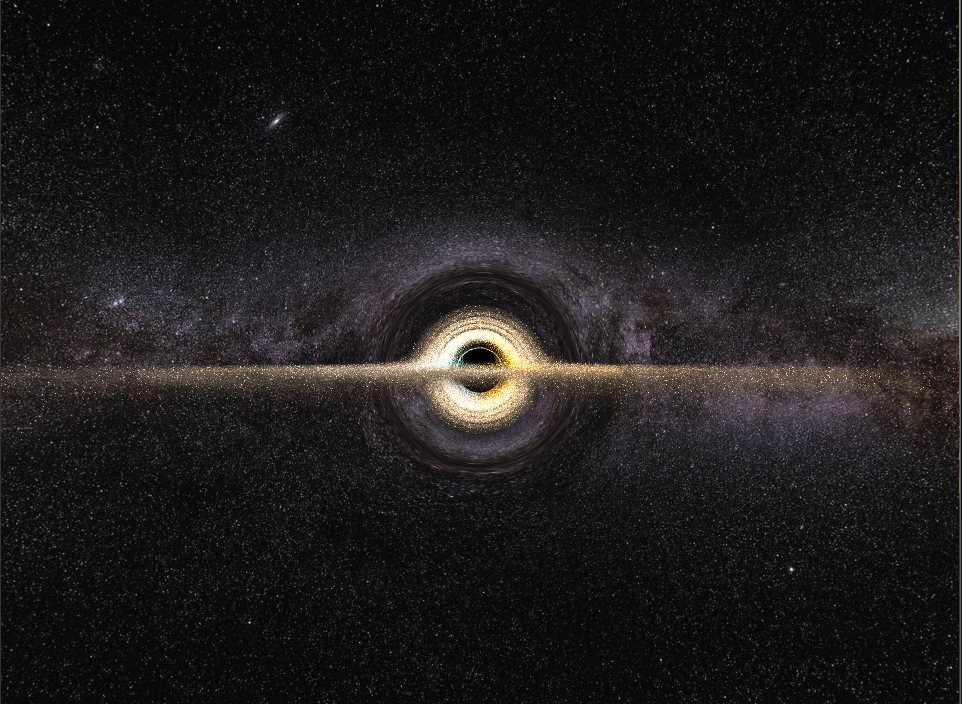
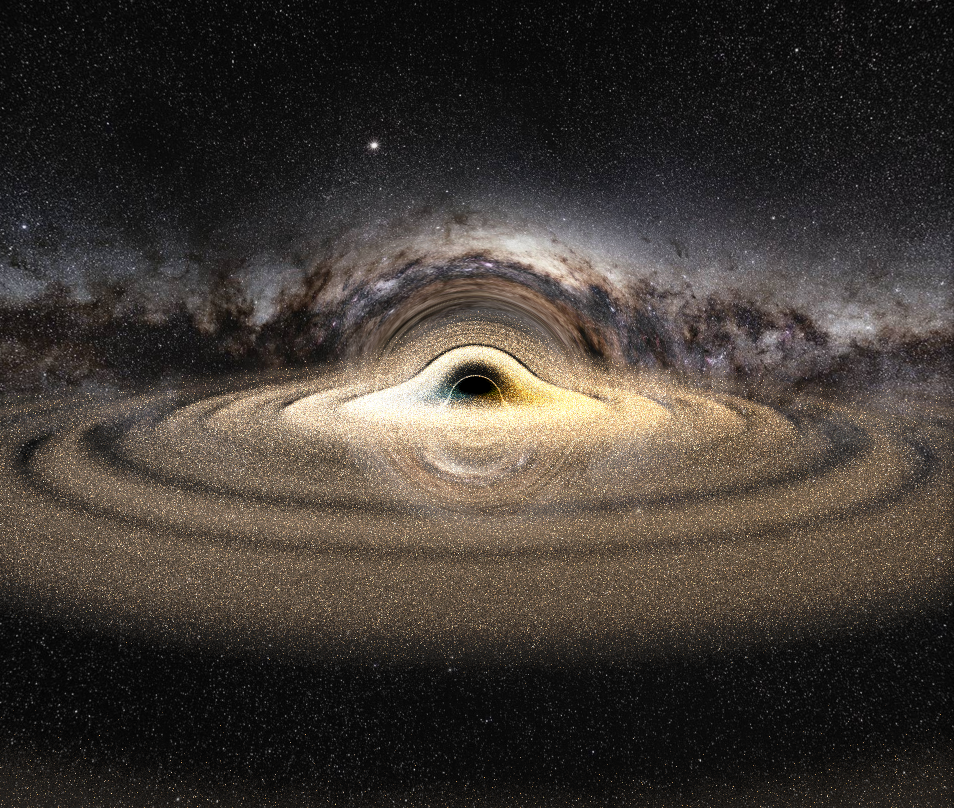
Clean up

diff --git a/src/RayTracing.js b/src/RayTracing.js
@@ -4,20 +4,6 @@ import * as THREE from "three";
 import shader from '!!raw-loader!./shader.glsl';  
 
 const RayTracing = () => {
-  const spheres = [];
-
-  function addSphere(s) {
-    spheres.push(s); 
-  }
-
-  function rot1(vFocusPos, r, t){
-    const theta = t * Math.PI;                                          
-    const x = vFocusPos.x + r * Math.cos(theta);
-    const y = vFocusPos.y
-    const z = vFocusPos.z + r * Math.sin(theta);
-    return new THREE.Vector3(x,y,z);
-  }
-
   function rot2(vFocusPos, r, t1, t2){
     const theta = t1 * Math.PI;
     const phi = (t2 * Math.PI) / 2;
@@ -27,58 +13,10 @@ const RayTracing = () => {
     return new THREE.Vector3(x,y,z);
   }
 
-  // function CalculateForce(position, center, mass) {
-  //   let direction = new THREE.Vector3().subVectors(position, center);
-  //   let distanceSquared = direction.dot(direction);
-  //   return direction.normalize().multiplyScalar(-mass / distanceSquared);
-  // }
-  // console.log(CalculateForce(new THREE.Vector3(-.5, 0, 0), new THREE.Vector3(0, 0, 0), 2.0));
-
-  // addSphere({ pos: new THREE.Vector3(0, 0.0, 0), 
-  //             r: 0.074,
-  //             material:{ 
-  //               col: new THREE.Vector3(0.0, 0.0, 0.0),
-  //               ilm: new THREE.Vector3(0.0, 0.0, 0.0),
-  //               spc: .6,
-  //           }}); // green
-
-  // addSphere({ pos: new THREE.Vector3(0.0, 0., 0.2), 
-  //             r:  0.1,
-  //             material:{ 
-  //               col: new THREE.Vector3(1.0, 0.4, 0.0),
-  //               ilm: new THREE.Vector3(0.5, 0.1, 0.0),
-  //               spc: 1.,
-  //             }}); // glow white
-
-  // addSphere({ pos: new THREE.Vector3(0.0, 0.0, 0.4),
-  //             r: 0.08,
-  //             material: { 
-  //               col: new THREE.Vector3(1.0, 0.4, 0.0),
-  //               ilm: new THREE.Vector3(0.5, 0.1, 0.0),
-  //               spc: 0.0,
-  //             }}); // big white 
-
-  // addSphere({ pos: new THREE.Vector3(0.0, 0.0, 0.5),
-  //             r: 0.03,
-  //             material: { 
-  //               col: new THREE.Vector3(1.0, 0.4, 0.0),
-  //               ilm: new THREE.Vector3(0.5, 0.1, 0.0),
-  //               spc: .2,
-  //             }}); // blue
-
-  // addSphere({ pos: new THREE.Vector3(0.0, 0.0, 1.),
-  //             r: 0.01,
-  //             material: { 
-  //               col: new THREE.Vector3(1.0, 0.4, 0.0),
-  //               ilm: new THREE.Vector3(0.5, 0.1, 0.0),
-  //               spc: 0,
-  //             }}); // red
-
-  // console.log(spheres.length, "spheres");
   const mountRef = useRef(null);
   const rayBounces = 100;
 
-  let cameraRadius = .2;
+  let cameraRadius = .7;
   let mouseX = 0.73; // .5
   let mouseY = .9; // 1.
   let frameCount = 0;
@@ -93,7 +31,6 @@ const RayTracing = () => {
         document.body.appendChild(fpsDisplay);
   let fps = [0];
   let fpsIdx = 0;
-  // let pfps = 0;
   let lastFrameTime = performance.now();
   useEffect(() => {
     const width = window.innerWidth;
@@ -123,8 +60,6 @@ const RayTracing = () => {
         u_time: { value: 0.0 },
         u_rayBounces: { value: rayBounces },
         u_buffer: { value: null },
-        // u_numSpheres: {value: spheres.length},
-        // u_spheres: {value: spheres},
         u_cameraRadius: {value: cameraRadius},
         u_space: {value: spaceHDRI},
         u_seed: {value: new THREE.Vector3(Math.random(), Math.random(), Math.random())}
@@ -137,8 +72,8 @@ const RayTracing = () => {
 
     const onMouseMove = (e) => {
       frameCount = 1;
-      mouseX = (e.clientX / width) * 2 - 1.5; // Normalize mouse X
-      mouseY = (e.clientY / height) * 2 - 2; // Normalize mouse Y
+      mouseX = (e.clientX / width) * 2 - 1.5;
+      mouseY = (e.clientY / height) * 2 - 2;
     };
 
     const onWheel = (e) => {
@@ -159,7 +94,6 @@ const RayTracing = () => {
       renderer.setSize(window.innerWidth, window.innerHeight);
     });
 
-    // Render loop
     const animate = () => {
       const temp = accumulationTarget;
       accumulationTarget = renderTarget;
@@ -170,11 +104,6 @@ const RayTracing = () => {
       material.uniforms.u_cameraPos.value = rot2(new THREE.Vector3(0,0,0), cameraRadius , mouseX, mouseY);
      
       // mouseX += 0.0003;
-      // spheres[1].pos = rot1(new THREE.Vector3(0,0,0), .5, material.uniforms.u_time.value * 13.21 - 1.5);
-      // spheres[2].pos = rot1(new THREE.Vector3(0,0,0), .6, material.uniforms.u_time.value * 13.21 + 1.5);
-      // spheres[3].pos = rot1(new THREE.Vector3(0,0,0), .7, material.uniforms.u_time.value * 13.21);
-      // spheres[4].pos = rot1(new THREE.Vector3(0,0,0), .76, material.uniforms.u_time.value * 13.21 - 3);
-      // material.uniforms.u_spheres.value = spheres;
       // frameCount = 1;
 
       let now = performance.now();
